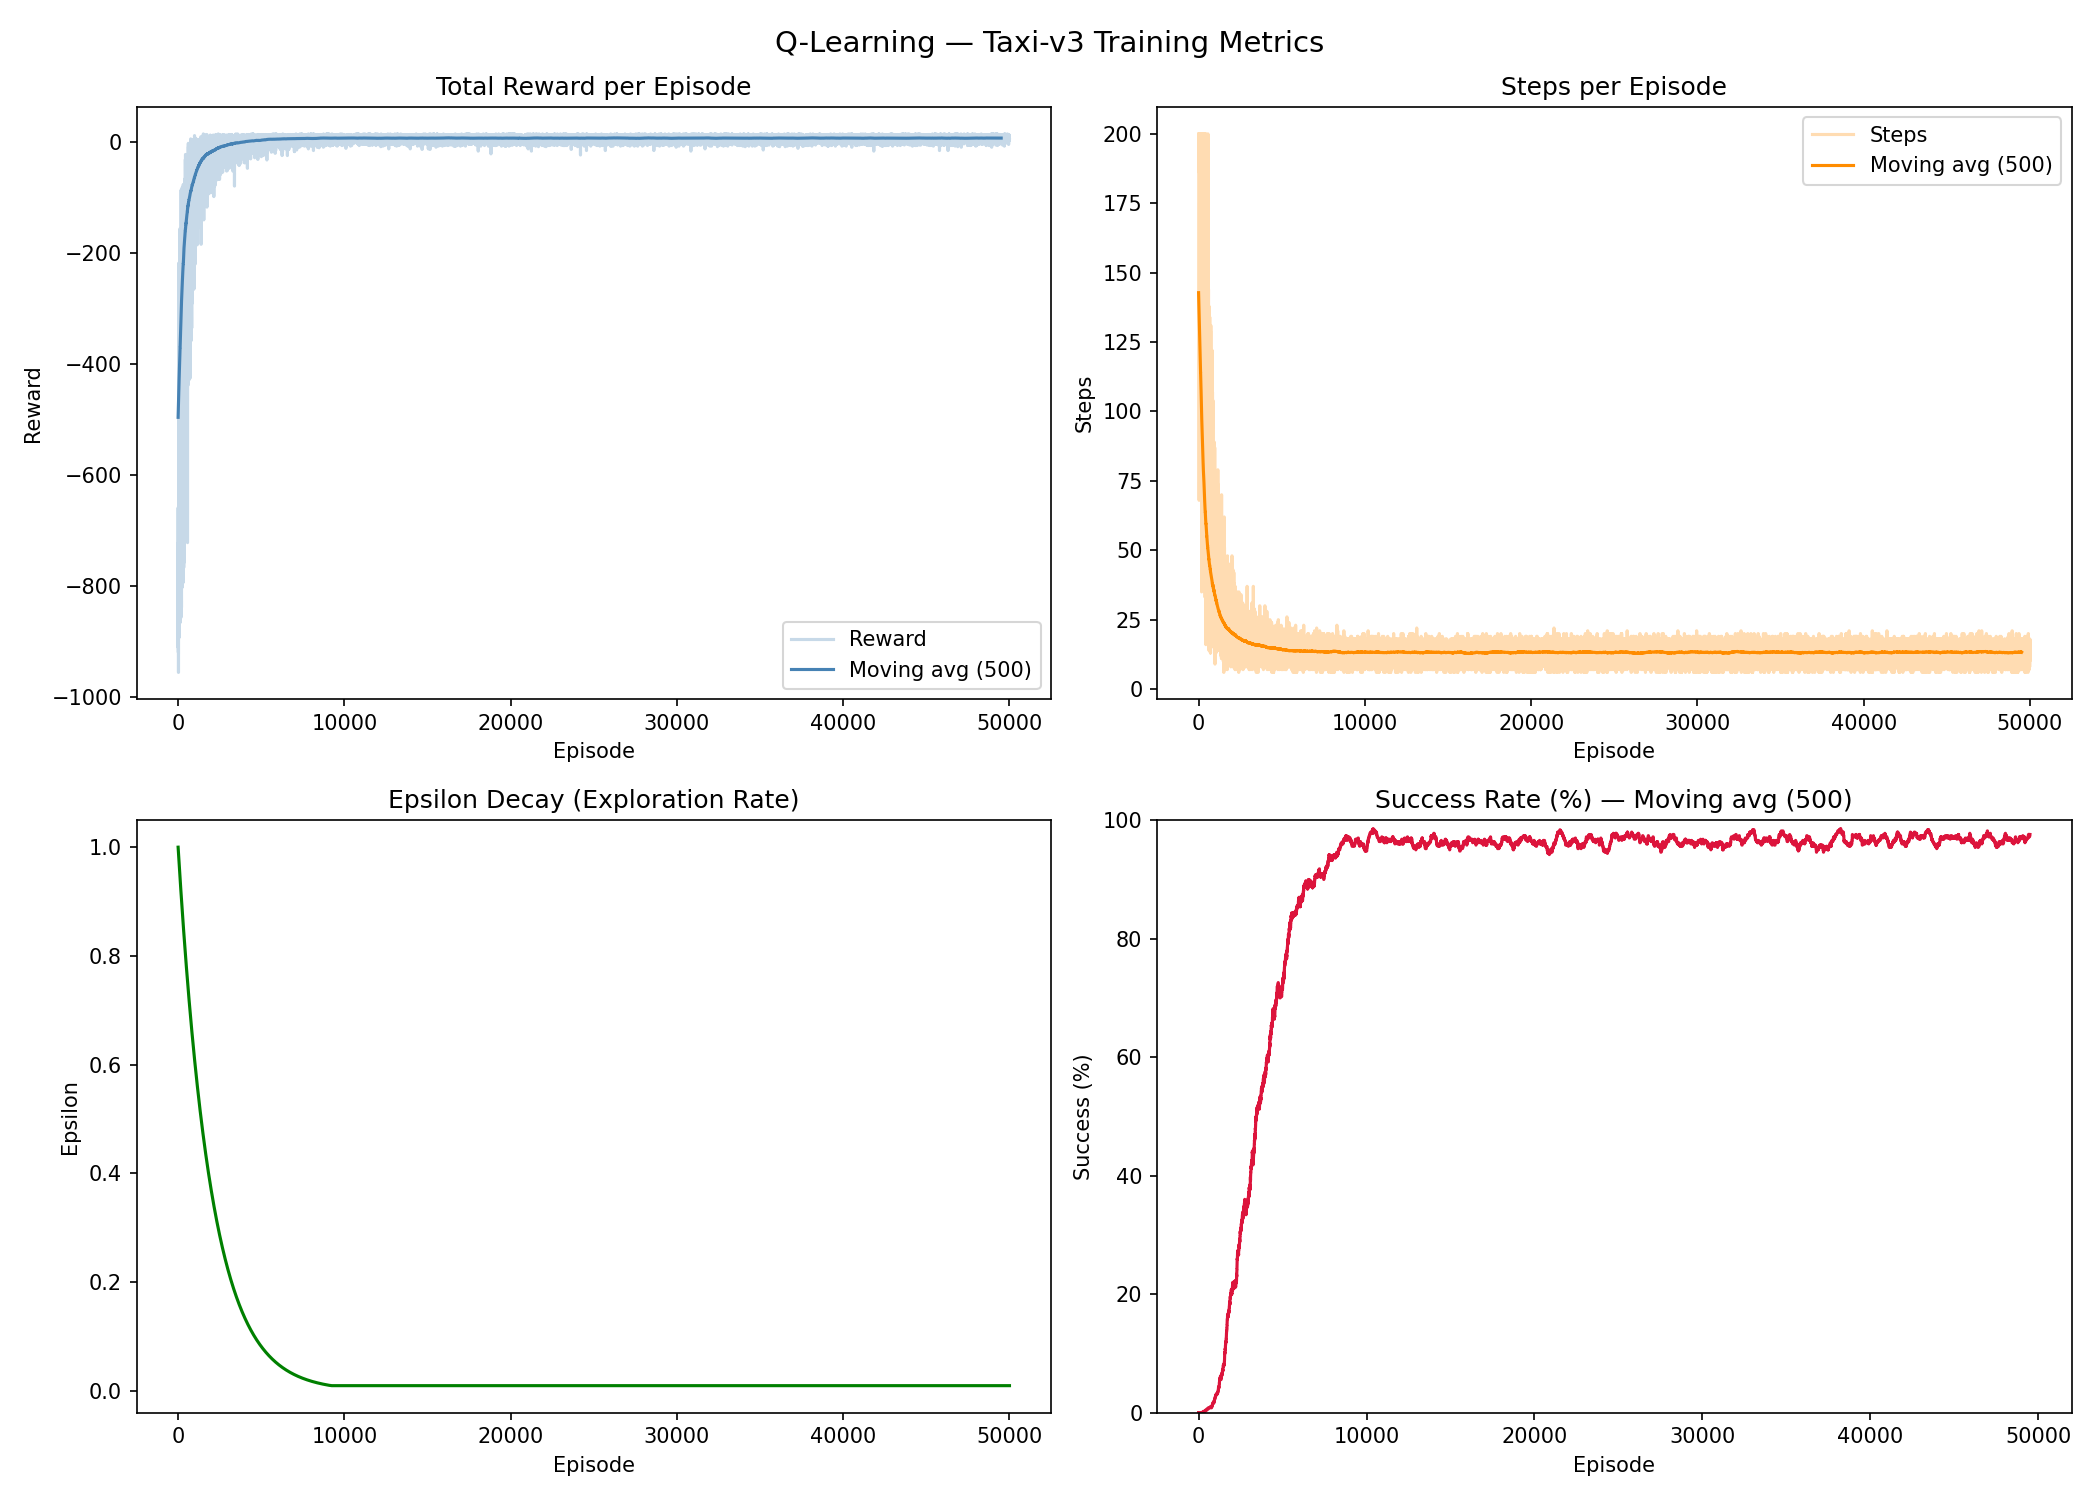
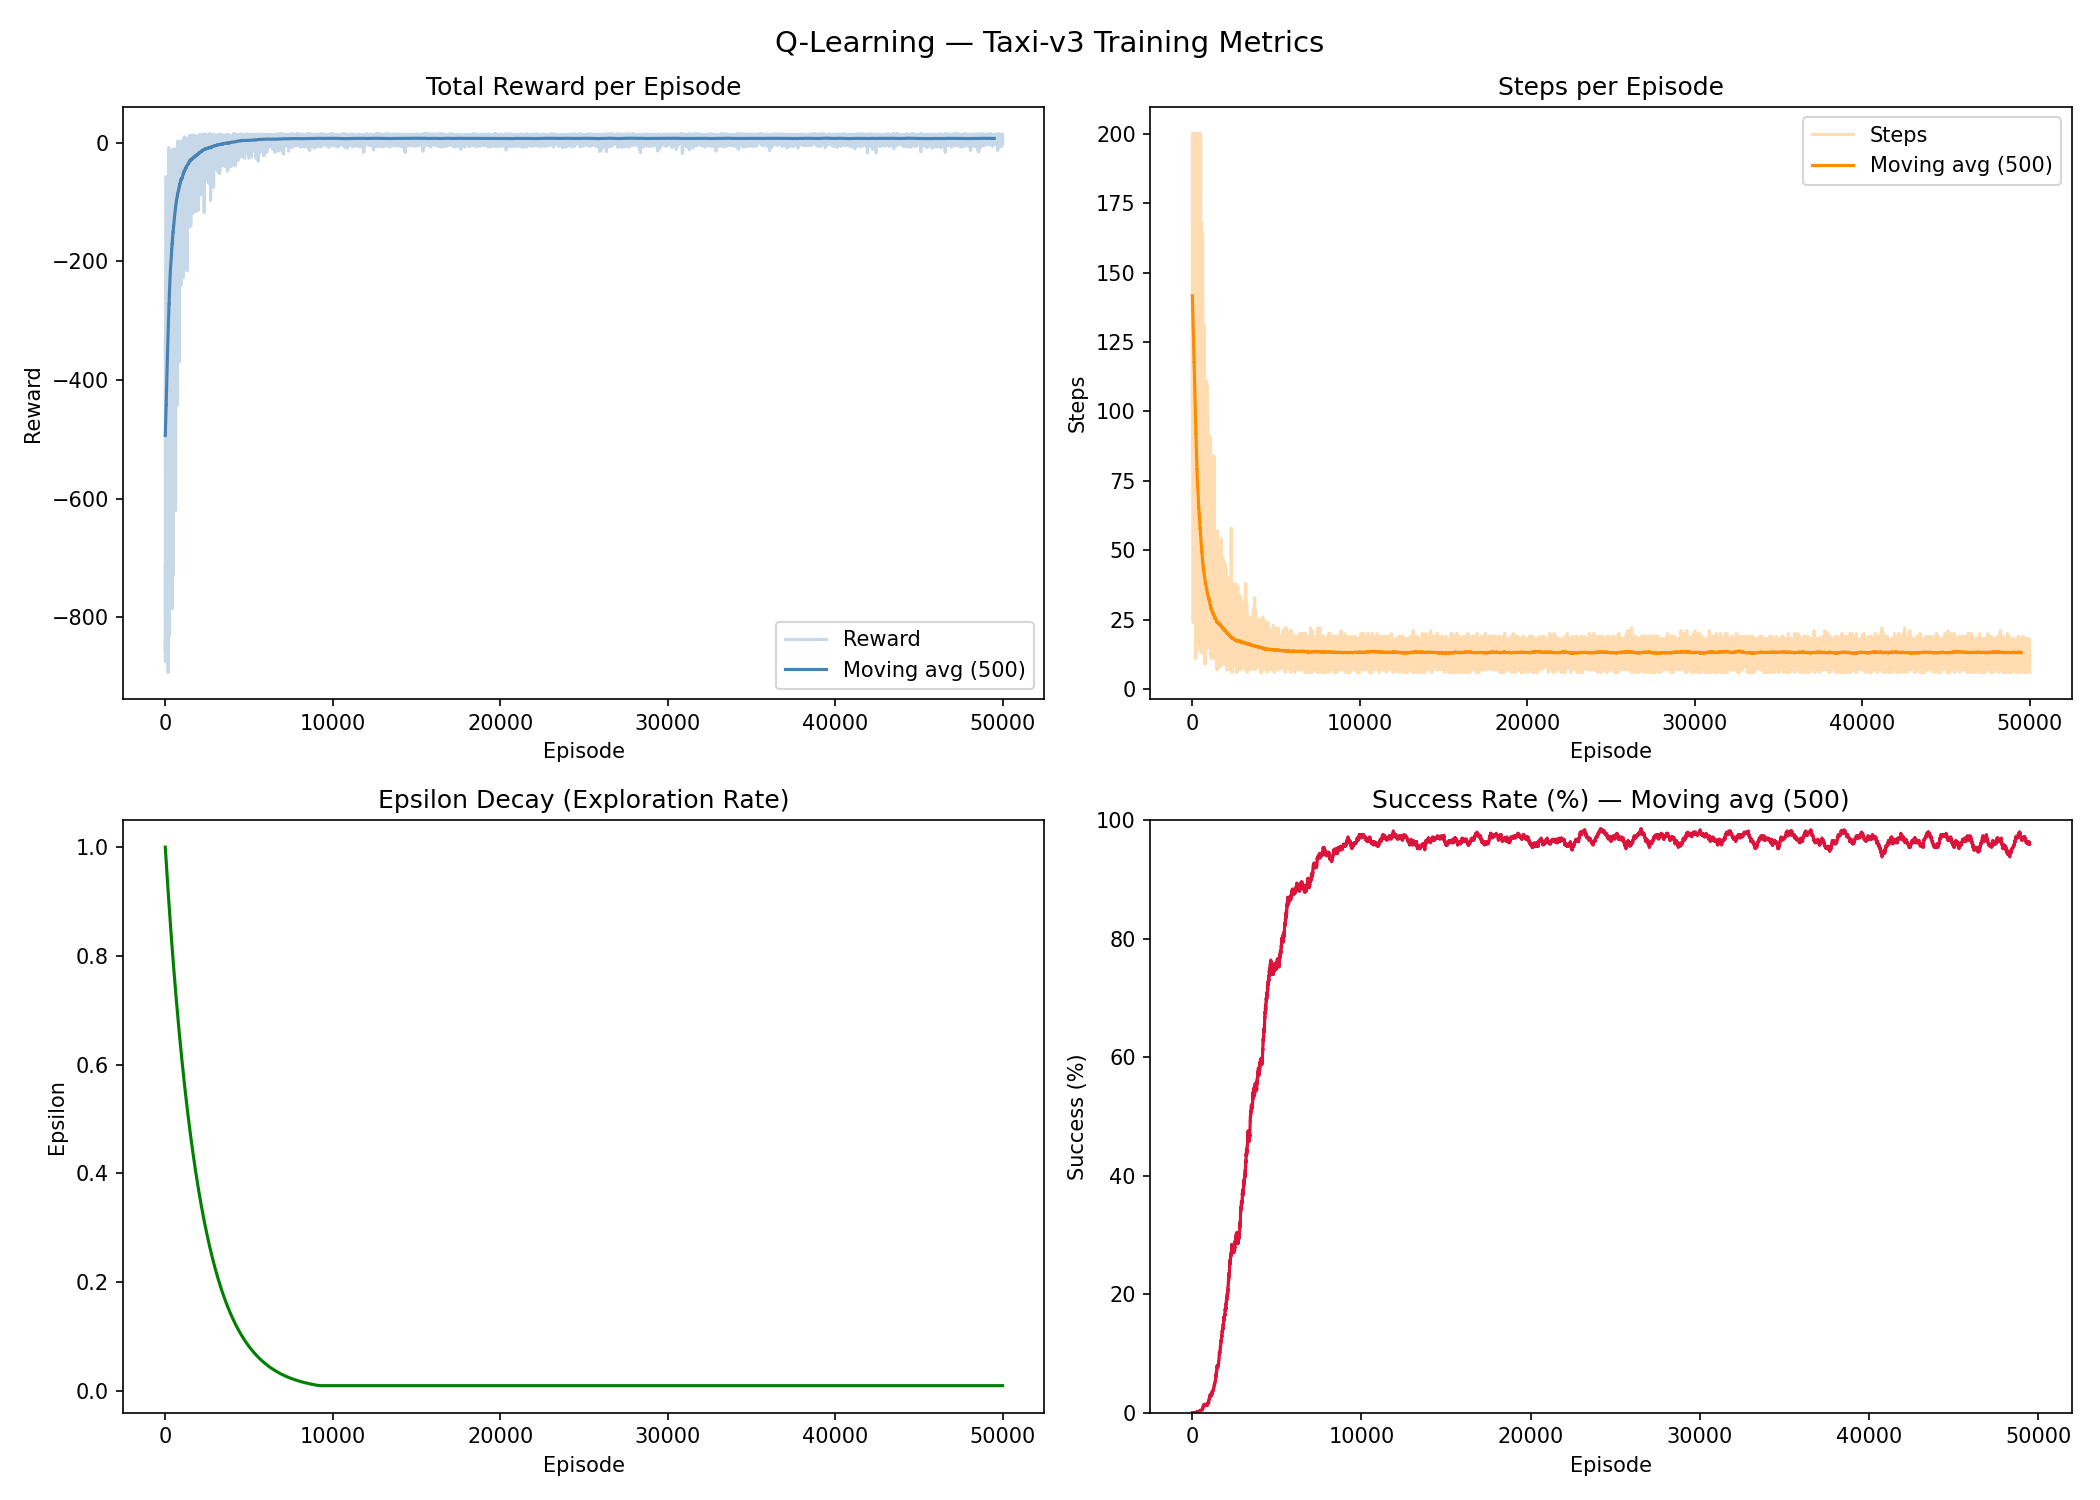
add metrics

diff --git a/project/main.py b/project/main.py
@@ -16,9 +16,11 @@ except Exception as e:
     Q = np.zeros((n_states, n_actions))
 
 
-alpha = 0.1
-gamma = 0.99
-epsilon = 1.0
+alpha = 0.1 # Taux d'apprentissage
+gamma = 0.99 # Facteur récompense
+epsilon = 1.0 # Taux d'exploration
+
+
 epsilon_min = 0.01
 epsilon_decay = 0.9995
 